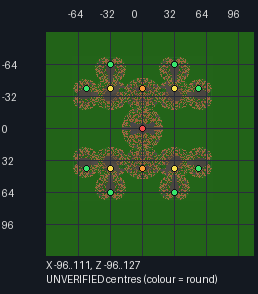
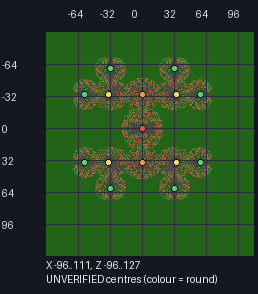
test: validate 30 provisional Bliss duel spawns and static round transitions

diff --git a/.github/scripts/review_gladiators_bracket.py b/.github/scripts/review_gladiators_bracket.py
@@ -2,11 +2,12 @@
 """Review reconstructed Gladiators bracket *candidates*, without creating maps.
 
 The original Reborn WorldConfig.dat is absent from Nixuge's WDL archives.
-Stage-centre annotations in review/ are hypotheses inferred from visible
-terrain, NOT original data points, spawn positions, or playable map metadata.
+Stage-centre and duel-pair annotations in review/ are hypotheses inferred from
+visible terrain, NOT original data points or playable map metadata.
 This tool checks the exact nearest-child algorithm used by 1.8 Gladiators
-and probes actual 1.8 block columns. It does not infer BLACK spawns, PINK
-progression markers, emerald-ore gates, or create a WorldConfig.dat.
+and nearest-BLACK selection, probing actual 1.8 blocks and route connectivity.
+It does not establish authentic spawns, PINK points or emerald-ore gates, and
+never creates a WorldConfig.dat.
 """
 
 from __future__ import annotations
@@ -80,14 +81,15 @@ class WorldBlocks:
         return [[y, block] for y in range(high + 1)
                 if (block := self.block(x, y, z)) not in (None, 0)]
 
-    def reachable_floor_cells(self, x: int, z: int, y: int, radius: int = 7) -> int:
-        """How many local foot positions are connected to the candidate centre?
+    def reachable_floor_positions(self, x: int, z: int, y: int,
+                                  radius: int = 7) -> set[tuple[int, int]]:
+        """Local foot positions connected to the candidate centre.
 
         Uses 4-neighbour horizontal steps at the same elevation. This measures
         immediately usable floor area, not an arena boundary or a gate route.
         """
         if y not in self.safe_feet_levels(x, z, y, y):
-            return 0
+            return set()
         seen = {(x, z)}
         pending = deque([(x, z)])
         while pending:
@@ -99,7 +101,43 @@ class WorldBlocks:
                     continue
                 seen.add((nx, nz))
                 pending.append((nx, nz))
-        return len(seen)
+        return seen
+
+    def reachable_floor_cells(self, x: int, z: int, y: int, radius: int = 7) -> int:
+        return len(self.reachable_floor_positions(x, z, y, radius))
+
+    def traversable(self, start: tuple[int, int, int],
+                    finish: tuple[int, int, int], margin: int = 12) -> bool:
+        """Conservative walking/jumping reachability across an arena transition.
+
+        Nodes are clear two-block-high feet locations, with four-direction
+        movement and at most a one-block vertical step. This detects blocked
+        round transitions in the WDL capture; it cannot certify gate mechanics.
+        """
+        if start[1] not in self.safe_feet_levels(start[0], start[2], start[1], start[1]):
+            return False
+        lowx, highx = min(start[0], finish[0]) - margin, max(start[0], finish[0]) + margin
+        lowz, highz = min(start[2], finish[2]) - margin, max(start[2], finish[2]) + margin
+        visited = {start}
+        pending = deque([start])
+        while pending:
+            x, y, z = pending.popleft()
+            if (x, y, z) == finish:
+                return True
+            for nx, nz in ((x - 1, z), (x + 1, z), (x, z - 1), (x, z + 1)):
+                if not (lowx <= nx <= highx and lowz <= nz <= highz):
+                    continue
+                for ny in (y - 1, y, y + 1):
+                    point = (nx, ny, nz)
+                    if ny < 3 or ny > 10 or point in visited:
+                        continue
+                    if ny > y and self.block(x, y + 2, z) != 0:
+                        continue
+                    if ny not in self.safe_feet_levels(nx, nz, ny, ny):
+                        continue
+                    visited.add(point)
+                    pending.append(point)
+        return False
 
 
 def closest_two(parent: dict, choices: list[dict]) -> list[dict]:
@@ -137,6 +175,68 @@ def validate_tournament(stages: list[dict]) -> dict:
     return {"valid_bracket_topology": not problems, "problems": problems, "links": links}
 
 
+def validate_duel_proposals(stages: list[dict], proposals: list[dict],
+                            world: WorldBlocks) -> dict:
+    """Validate BLACK-position *proposals*, never claim original authorship."""
+    problems = []
+    by_name = {s["name"]: s for s in stages}
+    if len(by_name) != 15:
+        problems.append("Stage names must be unique")
+    if len(proposals) != 15 or {p["arena"] for p in proposals} != set(by_name):
+        problems.append("Expected exactly one two-spawn proposal for each arena")
+    black = []
+    for proposal in proposals:
+        name = proposal["arena"]
+        stage = by_name.get(name)
+        if not stage:
+            problems.append(f"Unknown arena {name}")
+            continue
+        if proposal.get("status") != "RECONSTRUCTED_UNVERIFIED":
+            problems.append(f"{name}: proposals cannot be labelled authenticated/playable")
+        points = proposal.get("points", [])
+        if len(points) != 2:
+            problems.append(f"{name}: expected two opposite spawns")
+            continue
+        if any(len(point) != 3 or any(type(v) is not int for v in point)
+               for point in points):
+            problems.append(f"{name}: coordinates must be integer X,Y,Z triples")
+            continue
+        a, b = points
+        for point in points:
+            x, y, z = point
+            black.append((name, (x, y, z)))
+            if y != 6:
+                problems.append(f"{name}: proposed Y must be separately verified")
+            if not all(y in world.safe_feet_levels(x + dx, z + dz, y, y)
+                       for dx in (-1, 0, 1) for dz in (-1, 0, 1)):
+                problems.append(f"{name}: no 3x3 clear floor around {point}")
+            if (x, z) not in world.reachable_floor_positions(
+                    stage["x"], stage["z"], y, radius=12):
+                problems.append(f"{name}: no same-level route from centre to {point}")
+        ax, az = a[0] - stage["x"], a[2] - stage["z"]
+        bx, bz = b[0] - stage["x"], b[2] - stage["z"]
+        if (ax - bx) ** 2 + (az - bz) ** 2 < 144:
+            problems.append(f"{name}: proposed duel spawns closer than 12 blocks")
+        if ax * bx + az * bz > -0.75 * (
+                (ax * ax + az * az) * (bx * bx + bz * bz)) ** 0.5:
+            problems.append(f"{name}: duel spawns are not opposing one another")
+    if len(black) != 30 or len({coords for _, coords in black}) != 30:
+        problems.append("Expected 30 distinct BLACK spawn proposals")
+    if len(black) == 30:
+        for stage in stages:
+            # Arena.setupSpawns clones all BLACK points, chooses its nearest,
+            # removes that point, and chooses the second nearest to its mid.
+            closest = sorted(black, key=lambda entry:
+                             (entry[1][0] - stage["x"]) ** 2
+                             + (entry[1][1] - 6) ** 2
+                             + (entry[1][2] - stage["z"]) ** 2)[:2]
+            if {name for name, _ in closest} != {stage["name"]}:
+                problems.append(f"{stage['name']}: legacy closest-BLACK pairing leaks "
+                                f"into other arenas")
+    return {"valid_duel_proposals": not problems, "problems": problems,
+            "proposed_black_count": len(black)}
+
+
 def review_candidate(candidate: dict) -> dict:
     if candidate.get("status") != "UNVERIFIED_GEOMETRY_ONLY":
         raise ValueError("Refusing a candidate without explicit unverified status")
@@ -161,7 +261,19 @@ def review_candidate(candidate: dict) -> dict:
             world.reachable_floor_cells(s["x"], s["z"], 6),
         "blocks_in_column": world.column(s["x"], s["z"]),
     } for s in stages]
-    # No condition here claims an arena centre is a suitable duel spawn.
+    if "duel_spawn_proposals" in candidate:
+        result["duel_probe"] = validate_duel_proposals(
+            stages, candidate["duel_spawn_proposals"], world)
+    by_name = {s["name"]: s for s in stages}
+    result["transition_routes"] = [
+        {"child": link["child"], "stage": link["stage"],
+         "walkable_in_captured_world": world.traversable(
+             (by_name[link["child"]]["x"], 6, by_name[link["child"]]["z"]),
+             (by_name[link["stage"]]["x"], 6, by_name[link["stage"]]["z"]))}
+        for link in result["links"]
+    ]
+    # A geometry-only review with unverified round transitions is NEVER enough
+    # to construct a playable source map or certify game-specific markers.
     return result
 
 
@@ -170,6 +282,8 @@ def main():
     parser.add_argument("candidate", type=Path, help="Geometry-only review JSON")
     parser.add_argument("--image", type=Path,
                         help="Optional preview with clearly marked UNVERIFIED candidate tiers")
+    parser.add_argument("--centres-only", action="store_true",
+                        help="On a preview, show only the candidate stage centres")
     args = parser.parse_args()
     candidate = json.loads(args.candidate.read_text())
     print(json.dumps(review_candidate(candidate), indent=2))
@@ -179,8 +293,15 @@ def main():
         marks = [{"kind": "CANDIDATE", "name": stage["tier"],
                   "x": stage["x"], "y": 6, "z": stage["z"]}
                  for stage in candidate["stages"]]
+        if not args.centres_only:
+            for duel in candidate.get("duel_spawn_proposals", []):
+                marks.extend({"kind": "CANDIDATE", "name": "BLACK",
+                              "x": x, "y": y, "z": z}
+                             for x, y, z in duel["points"])
         preview(args.image, top, [], marks,
-                annotation_label="UNVERIFIED centres (colour = round)")
+                annotation_label=("UNVERIFIED centres (colour = round)"
+                                  if args.centres_only
+                                  else "UNVERIFIED centres + white duel pairs"))
 
 
 if __name__ == "__main__":

diff --git a/.github/scripts/test_audit_recovered_arcade_maps.py b/.github/scripts/test_audit_recovered_arcade_maps.py
@@ -3,6 +3,7 @@
 
 import importlib.util
 import json
+import math
 from pathlib import Path
 import sys
 import unittest
@@ -73,6 +74,16 @@ CUSTOM_LOCS:16,17,18:
         self.assertEqual(len(black), 30)
         self.assertTrue(all(m["y"] in world.safe_feet_levels(int(m["x"]), int(m["z"]))
                             for m in black))
+        # This original, authored control also has no freely traversable
+        # inter-round paths in the static pre-game ZIP. Therefore a blocked
+        # spatial route is a gate/transition REVIEW signal, not a proof that
+        # the map is corrupt or that teleport fallback cannot work.
+        by_name = {s["name"]: s for s in centres}
+        for link in bracket.validate_tournament(centres)["links"]:
+            child, parent = by_name[link["child"]], by_name[link["stage"]]
+            self.assertFalse(world.traversable(
+                (int(child["x"]), 4, int(child["z"])),
+                (int(parent["x"]), 4, int(parent["z"]))))
 
     def test_bliss_centres_are_only_review_candidates(self):
         path = (audit.ROOT / "update/map-recovery/nixuge/review/"
@@ -86,6 +97,14 @@ CUSTOM_LOCS:16,17,18:
                             for p in result["stage_probes"]))
         self.assertTrue(all(p["connected_safe_floor_cells_at_y6_within_radius7"] >= 60
                             for p in result["stage_probes"]))
+        self.assertTrue(result["duel_probe"]["valid_duel_proposals"],
+                        result["duel_probe"]["problems"])
+        self.assertEqual(result["duel_probe"]["proposed_black_count"], 30)
+        self.assertEqual(len(result["transition_routes"]), 14)
+        # The WDL capture has no demonstrably open routes between rounds.
+        # Even safe spawns cannot justify promotion without reviewed gates.
+        self.assertFalse(any(route["walkable_in_captured_world"]
+                             for route in result["transition_routes"]))
 
     def test_quiver_twin_peaks_is_not_evolution_configured(self):
         ref = audit.ROOT / "update/maps/One in the Quiver/Quiver_Twin Peaks 2.0.zip"
@@ -102,8 +121,17 @@ CUSTOM_LOCS:16,17,18:
         # two-block clearance, so the old map is worth a manual Evo review.
         self.assertTrue(all(m["y"] in world.safe_feet_levels(int(m["x"]), int(m["z"]), 1, 80)
                             for m in spawns))
+        closest_xz = min(
+            ((a, b) for i, a in enumerate(spawns) for b in spawns[i + 1:]),
+            key=lambda pair: math.hypot(pair[0]["x"] - pair[1]["x"],
+                                        pair[0]["z"] - pair[1]["z"]))
+        self.assertEqual(math.hypot(closest_xz[0]["x"] - closest_xz[1]["x"],
+                                    closest_xz[0]["z"] - closest_xz[1]["z"]), 2.0)
+        self.assertEqual(abs(closest_xz[0]["y"] - closest_xz[1]["y"]), 21.0)
         # Being collision-safe does NOT demonstrate safe Evolution PvP
-        # distances or supply the missing RED/GREEN/YELLOW station trio.
+        # distances. Two points nearly overlap in XZ but sit 21 blocks apart
+        # vertically; full mobility and spawn-camping review is necessary.
+        # The RED/GREEN/YELLOW station trio is still missing.
 
     def test_nixuge_recovery_still_has_no_authored_spawns(self):
         provenance = json.loads(audit.PROVENANCE.read_text())

diff --git a/.github/scripts/test_review_gladiators_bracket.py b/.github/scripts/test_review_gladiators_bracket.py
@@ -2,6 +2,7 @@
 """Tests for non-playable arena geometry review and bracket linking."""
 
 import importlib.util
+import copy
 import json
 from pathlib import Path
 import sys
@@ -31,6 +32,29 @@ class GladiatorsBracketReviewTest(unittest.TestCase):
                             for stage in result["stage_probes"]))
         self.assertTrue(all(stage["connected_safe_floor_cells_at_y6_within_radius7"] >= 60
                             for stage in result["stage_probes"]))
+        self.assertTrue(result["duel_probe"]["valid_duel_proposals"],
+                        result["duel_probe"]["problems"])
+        self.assertEqual(result["duel_probe"]["proposed_black_count"], 30)
+        self.assertEqual(len(result["transition_routes"]), 14)
+        self.assertTrue(all(not route["walkable_in_captured_world"]
+                            for route in result["transition_routes"]))
+
+    def test_duel_review_detects_unsafe_or_misassigned_proposals(self):
+        world = review.WorldBlocks(review.ROOT / self.candidate["source_archive"])
+        bad = copy.deepcopy(self.candidate["duel_spawn_proposals"])
+        bad[0]["points"][0] = [100000, 6, 100000]
+        report = review.validate_duel_proposals(self.candidate["stages"], bad, world)
+        self.assertFalse(report["valid_duel_proposals"])
+        self.assertTrue(any("no 3x3 clear floor" in issue for issue in report["problems"]))
+        self.assertTrue(any("closest-BLACK pairing" in issue for issue in report["problems"]))
+
+    def test_duel_review_rejects_invented_authenticity(self):
+        world = review.WorldBlocks(review.ROOT / self.candidate["source_archive"])
+        bad = copy.deepcopy(self.candidate["duel_spawn_proposals"])
+        bad[0]["status"] = "AUTHENTIC"
+        report = review.validate_duel_proposals(self.candidate["stages"], bad, world)
+        self.assertFalse(report["valid_duel_proposals"])
+        self.assertTrue(any("authenticated" in issue for issue in report["problems"]))
 
     def test_missing_or_duplicated_bracket_child_is_rejected(self):
         stages = [dict(s) for s in self.candidate["stages"]]

diff --git a/modern-platform/arcade-games-port/map-recovery/README.md b/modern-platform/arcade-games-port/map-recovery/README.md
@@ -27,7 +27,10 @@ acceptance checks.
   They are a *real, physically plausible starting-point reference*, not
   authenticated Evolution PvP placements. There is *no* Evolution
   RED/GREEN/YELLOW evolution platform data, so this cannot yet be loaded as
-  an Evolution map. Matching names alone do not make the layout equivalent.
+  an Evolution map. Two Quiver starts are just **two blocks apart horizontally**
+  but **21 blocks apart vertically**, so cover, level transitions and
+  spawn-camping require a separate Evolution playtest. Matching names alone
+  do not make the layout equivalent.
 
 ## Reproducible spatial review
 
@@ -62,33 +65,61 @@ python3 .github/scripts/audit_recovered_arcade_maps.py \
   --json /tmp/gladiators-without-barrier-roofs.json
 python3 .github/scripts/review_gladiators_bracket.py \
   update/map-recovery/nixuge/review/gladiators-bliss-stage-centres.json \
-  --image /tmp/gladiators-bliss-inferred-stage-centres.png
+  --image /tmp/gladiators-bliss-inferred-centres-and-duels.png
 ```
 
 From this view, **Bliss** has a symmetrical 15-room arena layout. The JSON
-under `update/map-recovery/nixuge/review/` records 15 approximate X/Z stage
-centres as explicitly `UNVERIFIED_GEOMETRY_ONLY`, keyed to the recovered
+under `update/map-recovery/nixuge/review/` records 15 provisional X/Z stage
+centres, now refined to the more symmetrical open-fighting floors at Y=6.
+These are explicitly `UNVERIFIED_GEOMETRY_ONLY` and keyed to the recovered
 ZIP's checksum. The read-only checker follows the source 1.8
 `Gladiators.parseArenas` nearest-child linking and finds one unique parent
 for each room. All 15 candidate centres have a solid, two-block-clear foot
 level at **Y=6**. The checker is calibrated against Caged In's authentic
 15-room tier topology and **all 30** real BLACK duel spawn coordinates.
-Each provisional centre also connects to at least **66** two-block-clear
+Each refined centre also connects to at least **112** two-block-clear
 standing cells within a seven-block horizontal radius at Y=6; the checker
 requires at least 60. These are local, measured floor areas, not verified
-combat boundaries, routes or spawn positions.
+combat boundaries, routes or spawn positions. The first-pass centre estimates
+were moved by a few blocks to avoid decorations and arena edges.
 
 ![Bliss provisional, unverified arena-centre overlay](../../../update/map-recovery/nixuge/review/gladiators-bliss-stage-centres.png)
 
 *Bliss, beneath its invisible barrier roof. The coloured circles are inferred
 stage centres for review only, **not** original Mineplex markers.*
 
-**This is not an original WorldConfig or a playable map.** An apparent
-arena centre does not establish the original BLACK spawn pairs, PINK particle
-points, emerald-ore gates (all missing in the WDL snapshot), or spectator
-and player paths. The validator refuses candidates marked playable and never
-writes to `update/maps`. Complete and human-review those remaining pieces
-before adding any map to rotation.
+The same JSON now contains **30 newly reconstructed BLACK duel spawn
+proposals**, two per room, labelled `RECONSTRUCTED_UNVERIFIED`. All 30 are
+distinct, have a solid floor and clear 3×3 horizontal footprint with two air
+blocks overhead, and can be reached at Y=6 from the corresponding centre.
+The two spawns in each room face opposite sides, are at least 12 blocks
+apart, and remain the room's own nearest two BLACK positions when evaluated
+against *all 30* using the original `Arena.setupSpawns` rule. No part of
+this derives the positions from original authored marker data.
+
+![Bliss provisional, unverified stage centres and duel spawns](../../../update/map-recovery/nixuge/review/gladiators-bliss-duel-proposals.png)
+
+*Coloured circles: inferred stage centres. White circles: **proposed** BLACK
+duel spawns. Neither set is authenticated source metadata.*
+
+**Round transitions and progression remain the blocker.** A limited 3D
+walking/jumping reachability check on the captured Bliss world finds **none
+of the 14** inter-round connections freely open. However the *authentic
+Caged In control* also has no freely traversable round transitions in its
+static ZIP; a closed pre-game route is therefore **not proof of a broken
+match**. The original Gladiators game can eventually teleport slow movers
+to the next stage. We still do not know which physical gate blocks (if any)
+and PINK progression points were authored for Bliss, or whether routes will
+open appropriately on victory. The WDL capture provides no emerald-ore
+gate markers. Human round-progression and teleport-fallback testing must
+precede any playable configuration.
+
+**This is not an original WorldConfig or a playable map.** Geometry-based
+stage and duel suggestions do not establish the original Mineplex markers.
+The validator rejects candidates labelled playable or authenticated and
+never writes to `update/maps`. Review the PINK points, doorway construction,
+spectator and player routes, and run full multiplayer acceptance before any
+promotion.
 
 ## Required evidence before adding one map to rotation
 
